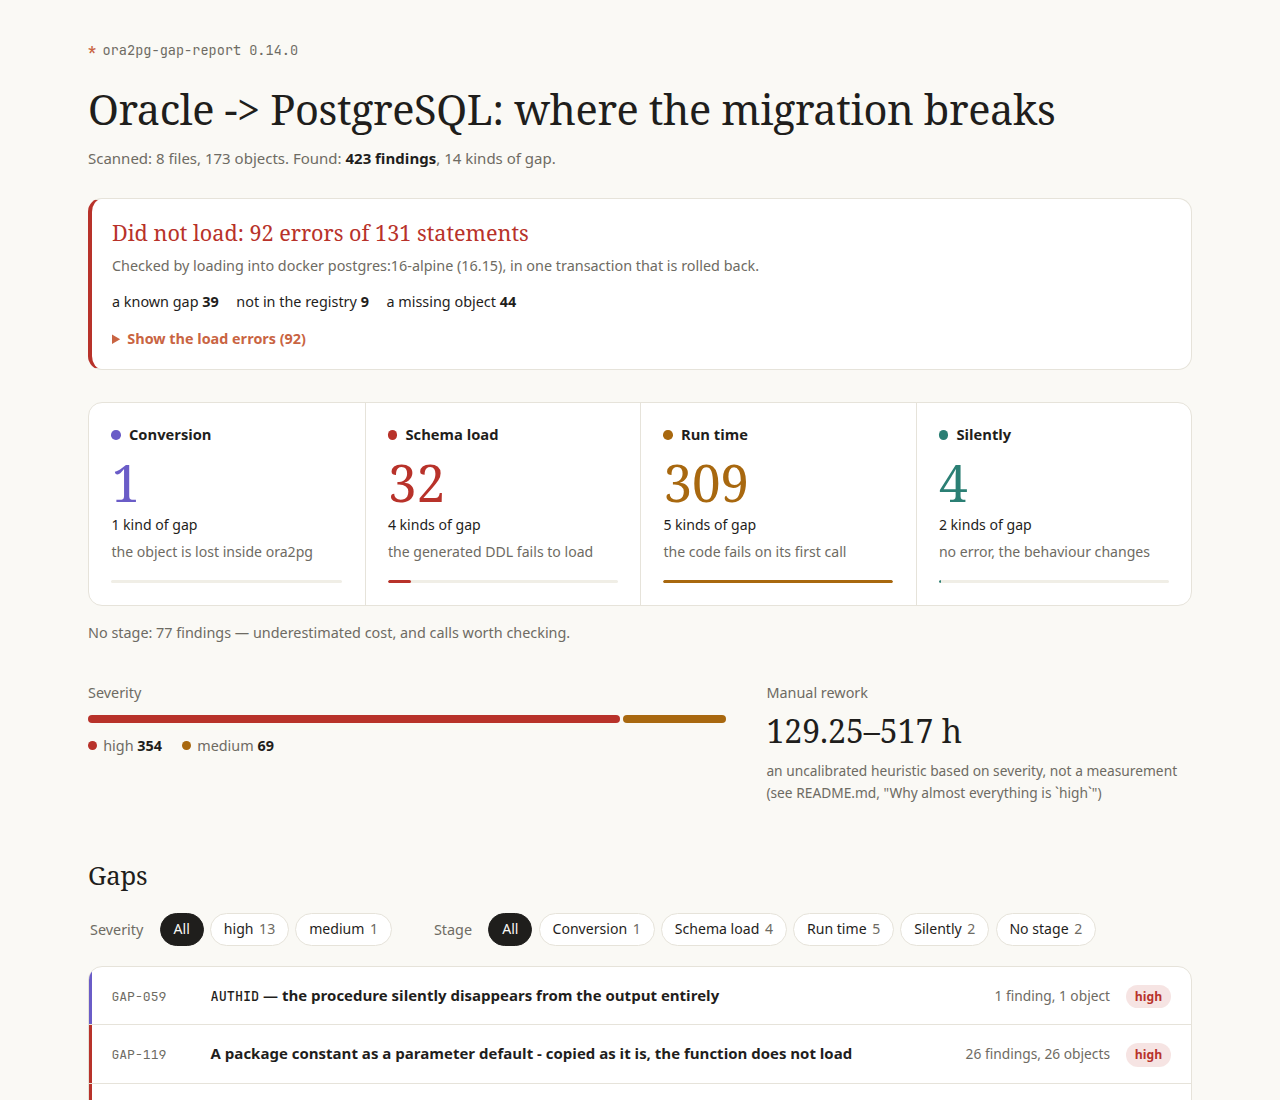
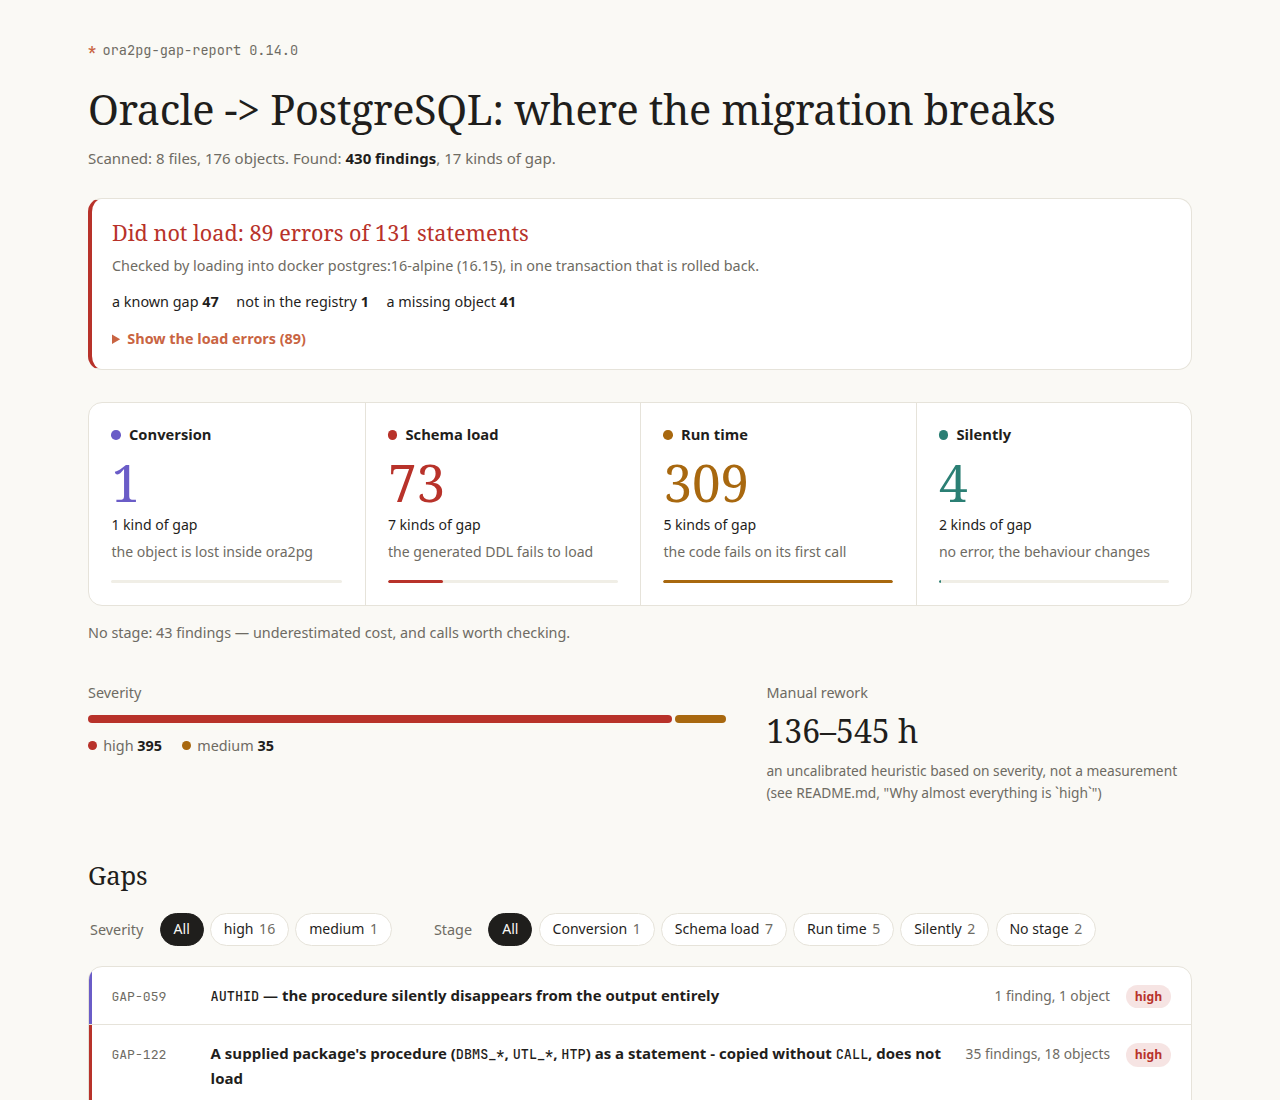
Polish: TUI-worded migrate summary, whole-hour estimates, fresh screenshots
- the migrate screen's summary no longer tells the user to add flags or
  rerun a command; the empty status line above it is hidden
- the rework estimate is in whole hours from 10 up
- scripts/screenshots.py retakes the TUI results and migrate screens too,
  from relative paths; all screenshots retaken (123 gaps, 430 findings)

diff --git a/scripts/screenshots.py b/scripts/screenshots.py
@@ -6,7 +6,9 @@ The terminal pictures are Rich's own recording of the real output, saved
 as SVG and rendered by headless Chrome; the HTML report is rendered the
 same way. The --migrate pictures come from a real run on the sample
 packages: ora2pg from the docker image ora2pg:25.0 (or $ORA2PG_BIN) and
-PostgreSQL 16 in docker. Needs google-chrome and docker.
+PostgreSQL 16 in docker. The TUI pictures are Textual's own screenshots of
+the app driven by its test harness. Needs google-chrome, docker and the
+[tui] extra.
 
 When docker runs outside a sandbox that hides /tmp, nothing else is
 needed; otherwise point TMPDIR at a directory docker can see.
@@ -14,9 +16,11 @@ needed; otherwise point TMPDIR at a directory docker can see.
 
 from __future__ import annotations
 
+import asyncio
 import dataclasses
 import os
 import re
+import shutil
 import subprocess
 import sys
 import tempfile
@@ -77,6 +81,44 @@ def record(work: Path, out: Path, title: str, draw: Callable[[Console], None], n
     svg_to_png(svg, out / f"{name}.png", 1400, height)
 
 
+async def _tui_shots(work: Path, out: Path, lang: str, migrated: Path) -> None:
+    """The results screen on the samples with one finding open, and the
+    migrate screen after a run into `migrated`."""
+    from ora2pg_gap_report.tui_app import GapReportApp, MigrateScreen, ResultsScreen
+
+    app = GapReportApp(start_path=SAMPLES, lang=lang)
+    async with app.run_test(size=(118, 40)) as pilot:
+        await pilot.pause()
+        app.screen.selected_path = SAMPLES  # type: ignore[attr-defined]
+        await pilot.click("#scan-btn")
+        while not isinstance(app.screen, ResultsScreen):
+            await pilot.pause()
+        table = app.screen.query_one("#findings-table")
+        table.focus()
+        for _ in range(3):
+            await pilot.press("down")
+        await pilot.pause()
+        app.save_screenshot(str(work / f"tui.{lang}.svg"))
+
+        await pilot.press("escape")
+        await pilot.pause()
+        await pilot.click("#migrate-btn")
+        while not isinstance(app.screen, MigrateScreen):
+            await pilot.pause()
+        screen = app.screen
+        screen.query_one("#migrate-out").value = str(migrated)  # type: ignore[attr-defined]
+        screen.query_one("#migrate-ora2pg").value = ORA2PG  # type: ignore[attr-defined]
+        screen.query_one("#migrate-load").value = True  # type: ignore[attr-defined]
+        await pilot.click("#migrate-run-btn")
+        while screen.result_text is None:
+            await pilot.pause()
+            await asyncio.sleep(0.2)
+        await pilot.pause()
+        app.save_screenshot(str(work / f"tui-migrate.{lang}.svg"))
+    for name in (f"tui.{lang}", f"tui-migrate.{lang}"):
+        svg_to_png(work / f"{name}.svg", out / f"{name}.png", 1400, None)
+
+
 def main() -> int:
     os.chdir(ROOT)
     out = ROOT / "docs" / "screenshots"
@@ -111,6 +153,17 @@ def main() -> int:
         with open(page, "w", encoding="utf-8") as report:
             html_report.write_html(findings, report, lang=lang, load=load)
         _chrome(page, out / f"html-report.{lang}.png", 1280, 1100)
+        # From inside `work`, where docs/research/samples is a link to the
+        # real one, so the screen shows the same short relative paths the
+        # README's commands use, and out/ lands in the scratch directory.
+        os.chdir(work)
+        samples_link = work / SAMPLES
+        if not samples_link.exists():
+            samples_link.parent.mkdir(parents=True, exist_ok=True)
+            samples_link.symlink_to(ROOT / SAMPLES)
+        shutil.rmtree(work / "out", ignore_errors=True)
+        asyncio.run(_tui_shots(work, out, lang, Path("out")))
+        os.chdir(ROOT)
     print(f"written to {out}")
     return 0
 

diff --git a/ora2pg_gap_report/tui_app.py b/ora2pg_gap_report/tui_app.py
@@ -801,6 +801,7 @@ class MigrateScreen(_SpinnerStatus, Screen[None]):
 
     def _show_status_error(self, message: str | Text) -> None:
         self._set_running(False)
+        self._status().display = True
         super()._show_status_error(message)
 
     def on_button_pressed(self, event: Button.Pressed) -> None:
@@ -818,6 +819,7 @@ class MigrateScreen(_SpinnerStatus, Screen[None]):
         self.query_one("#migrate-result", Static).update("")
         self.result_text = None
         self._set_running(True)
+        self._status().display = True
         self._start_spinner(i18n.t(self.lang, "tui_migrate_running"), self.lang)
         self._run(Path(out).expanduser(), ora2pg_bin, load)
 
@@ -829,6 +831,9 @@ class MigrateScreen(_SpinnerStatus, Screen[None]):
         self._set_running(False)
         self._stop_spinner()
         self._status().update("")
+        # The summary says how it went; an empty status line above it
+        # would only push it down.
+        self._status().display = False
         self.result_text = text
         self.query_one("#migrate-result", Static).update(text)
 
@@ -893,7 +898,7 @@ class MigrateScreen(_SpinnerStatus, Screen[None]):
         width = max(60, self.size.width - 6)
         console = Console(file=io.StringIO(), record=True, width=width, force_terminal=True, color_system="truecolor")
         render_migration(result, load, console=console, lang=lang, load_check_asked=load_check, in_tui=True)
-        self.app.call_from_thread(self._show_result, Text.from_ansi(console.export_text(styles=True)))
+        self.app.call_from_thread(self._show_result, Text.from_ansi(console.export_text(styles=True).lstrip("\n")))
 
 
 class ResultsScreen(Screen[None]):
@@ -1025,7 +1030,7 @@ class ResultsScreen(Screen[None]):
             )
             effort = Text(f"{i18n.t(lang, 'effort_panel_title')}: ", style=_MUTED)
             effort.append(
-                i18n.t(lang, "report_effort_range", lo=i18n.number(lang, lo), hi=i18n.number(lang, hi)),
+                i18n.t(lang, "report_effort_range", lo=i18n.hours(lang, lo), hi=i18n.hours(lang, hi)),
                 style="bold",
             )
             effort.append(f" {i18n.t(lang, 'tui_effort_caveat')}", style=_MUTED)

diff --git a/ora2pg_gap_report/i18n.py b/ora2pg_gap_report/i18n.py
@@ -209,6 +209,15 @@ def number(lang: str, value: float) -> str:
     return text.replace(".", ",") if lang != "en" else text
 
 
+def hours(lang: str, value: float) -> str:
+    """An effort estimate's end: whole hours from 10 up, where a quarter
+    hour is noise the heuristic cannot claim ("136.25" reads as precise),
+    and the exact value below, where it is a real share ("0.5")."""
+    if value >= 10:
+        return str(int(value + 0.5))
+    return number(lang, value)
+
+
 def count(lang: str, noun: str, n: int) -> str:
     """`n` with `noun` in the grammatical form the number takes:
     count("ru", "finding", 21) -> "21 находка", count("en", "file", 1)
@@ -671,6 +680,7 @@ _UI: dict[str, dict[str, str]] = {
         "ru": "не проверялась (добавьте --load-check docker)",
         "en": "not checked (add --load-check docker)",
     },
+    "migrate_row_load_skipped_tui": {"ru": "не проверялась", "en": "not checked"},
     "migrate_row_load_nothing": {"ru": "ora2pg ничего не выдал - загружать нечего", "en": "ora2pg produced nothing to load"},
     "migrate_row_load_clean": {"ru": "всё загрузилось: {statements}", "en": "everything loaded: {statements}"},
     "migrate_row_load_failed": {
@@ -1076,10 +1086,10 @@ _UI: dict[str, dict[str, str]] = {
         "en": "Findings: {n} ({counts})\n\n",
     },
     "markdown_effort_estimate": {
-        "ru": "Грубая оценка ручной доработки: {lo:g}–{hi:g} ч. "
+        "ru": "Грубая оценка ручной доработки: {lo}–{hi} ч. "
         "— неоткалиброванная эвристика по severity, не измерение "
         "(см. README.md, «Почему почти всё high»).\n\n",
-        "en": "Rough manual-rework estimate: {lo:g}–{hi:g}h. "
+        "en": "Rough manual-rework estimate: {lo}–{hi}h. "
         "— an uncalibrated heuristic based on severity, not a measurement "
         "(see README.md, \"Why almost everything is `high`\").\n\n",
     },

diff --git a/ora2pg_gap_report/terminal_report.py b/ora2pg_gap_report/terminal_report.py
@@ -234,7 +234,7 @@ def _render_severity_and_effort(console: Console, findings: list[Finding], gaps:
     grid.add_row(i18n.t(lang, "report_filter_severity"), bar)
     lo, hi = estimate_hours(findings)
     grid.add_row(
-        i18n.t(lang, "effort_panel_title"), Text(i18n.t(lang, "report_effort_range", lo=i18n.number(lang, lo), hi=i18n.number(lang, hi)), style="bold")
+        i18n.t(lang, "effort_panel_title"), Text(i18n.t(lang, "report_effort_range", lo=i18n.hours(lang, lo), hi=i18n.hours(lang, hi)), style="bold")
     )
     grid.add_row("", Text(i18n.t(lang, "report_effort_caveat"), style="dim"))
     if distinct_detector_count(findings) < total:
@@ -794,7 +794,12 @@ def render_migration(
     )
     if load is None:
         load_text = Text(
-            i18n.t(lang, "migrate_row_load_nothing" if load_check_asked else "migrate_row_load_skipped"),
+            i18n.t(
+                lang,
+                "migrate_row_load_nothing"
+                if load_check_asked
+                else "migrate_row_load_skipped_tui" if in_tui else "migrate_row_load_skipped",
+            ),
             style="dim",
         )
         load_where = ""

diff --git a/ora2pg_gap_report/html_report.py b/ora2pg_gap_report/html_report.py
@@ -399,7 +399,7 @@ def write_html(
         w(f'<span><span class="dot sev-{s}"></span>{s} <b>{counts[s]}</b></span>')
     w("</div>\n</div>\n<div>\n")
     w(f'<span class="label">{i18n.t(lang, "report_effort_label")}</span>\n')
-    w(f'<p class="effort-range">{i18n.t(lang, "report_effort_range", lo=i18n.number(lang, lo), hi=i18n.number(lang, hi))}</p>\n')
+    w(f'<p class="effort-range">{i18n.t(lang, "report_effort_range", lo=i18n.hours(lang, lo), hi=i18n.hours(lang, hi))}</p>\n')
     w(f'<p class="caveat">{html.escape(i18n.t(lang, "report_effort_caveat"))}</p>\n</div>\n</div>\n')
 
     # The gaps, each once.

diff --git a/tests/test_i18n.py b/tests/test_i18n.py
@@ -232,3 +232,12 @@ def test_statement_count_after_iz_takes_the_genitive():
         "1 команды", "2 команд", "5 команд", "21 команды", "131 команды",
     ]
     assert i18n.count("en", "statement_of", 131) == "131 statements"
+
+
+def test_effort_hours_are_whole_from_ten_up():
+    from ora2pg_gap_report import i18n
+
+    assert i18n.hours("en", 136.25) == "136"
+    assert i18n.hours("en", 544.5) == "545"
+    assert i18n.hours("en", 0.5) == "0.5"
+    assert i18n.hours("ru", 2.25) == "2,25"

diff --git a/tests/test_tui_app.py b/tests/test_tui_app.py
@@ -896,6 +896,7 @@ async def test_migrate_runs_the_pipeline_and_shows_its_summary(tmp_path, monkeyp
         assert (out / "report.html").exists() and (out / "MIGRATION.md").exists()
         # worded for this screen, not for the command line
         assert i18n.t(lang, "migrate_next_rerun_tui") in summary
+        assert "--load-check" not in summary
         # --fix ran on the output, as on the command line
         assert "IDENTITY (START WITH 1)" in (out / "converted" / "03_TABLE_output.sql").read_text(encoding="utf-8")
 

diff --git a/ora2pg_gap_report/cli.py b/ora2pg_gap_report/cli.py
@@ -314,7 +314,7 @@ def _markdown_header(findings: list[Finding], lang: str) -> str:
     return (
         i18n.t(lang, "markdown_report_title")
         + found
-        + i18n.t(lang, "markdown_effort_estimate", lo=lo, hi=hi)
+        + i18n.t(lang, "markdown_effort_estimate", lo=i18n.hours(lang, lo), hi=i18n.hours(lang, hi))
     )
 
 

diff --git a/CHANGELOG.ru.md b/CHANGELOG.ru.md
@@ -71,6 +71,12 @@ patch — исправления в существующих.
 - `--ora2pg-bin docker:ОБРАЗ` запускает ora2pg как entrypoint контейнера,
   поэтому подходит любой образ, где ora2pg есть в PATH, в том числе образ
   самого проекта, у которого entrypoint - сам инструмент.
+- Оценка доработки от 10 часов - в целых часах (`136-545 ч`, а не
+  `136,25-545 ч`): у такой грубой эвристики нет четвертей часа.
+- Экран миграции в TUI формулирует следующие шаги для экрана (галочка и
+  кнопка "Запустить"), а не для командной строки.
+- `scripts/screenshots.py` пересоздаёт и картинки TUI, а README показывает
+  экран миграции.
 
 ## [0.14.0] - 2026-10-08
 

diff --git a/CHANGELOG.md b/CHANGELOG.md
@@ -70,6 +70,12 @@ patch for fixes to existing ones.
 - `--ora2pg-bin docker:IMAGE` starts ora2pg as the container's entrypoint,
   so it works with any image that has ora2pg on PATH - this project's own
   image included, whose entrypoint is the tool itself.
+- The rework estimate is in whole hours from 10 up (`136-545 h`, not
+  `136.25-545 h`): a heuristic this rough has no quarter hours.
+- The TUI's migrate screen words its next steps for the screen (a checkbox
+  and a Run button), not for the command line.
+- `scripts/screenshots.py` retakes the TUI pictures too, and the README
+  shows the migrate screen.
 
 ## [0.14.0] - 2026-10-08
 

diff --git a/README.ru.md b/README.ru.md
@@ -439,6 +439,8 @@ ora2pg-gap-report --tui path/to/schema_dump/   # открывается там
 получается тот же - `report.html`, `MIGRATION.md`, `converted/`, а с
 загрузкой ещё `load-check.txt`/`.json`.
 
+![ora2pg-gap-report --tui: экран миграции после прогона на примерах пакетов с загрузкой в PostgreSQL 16](docs/screenshots/tui-migrate.ru.png)
+
 ### Документация прямо из CLI
 
 `--explain GAP-023` (или просто `--explain 23`) печатает research-документ

diff --git a/README.md b/README.md
@@ -441,6 +441,8 @@ and ends with the same summary the command line prints. The directory it
 writes is the same too - `report.html`, `MIGRATION.md`, `converted/`, and
 `load-check.txt`/`.json` with the load.
 
+![ora2pg-gap-report --tui: the migrate screen after a run on the sample packages with the load into PostgreSQL 16](docs/screenshots/tui-migrate.en.png)
+
 ### Documentation straight from the CLI
 
 `--explain GAP-023` (or just `--explain 23`) prints a specific gap's research
